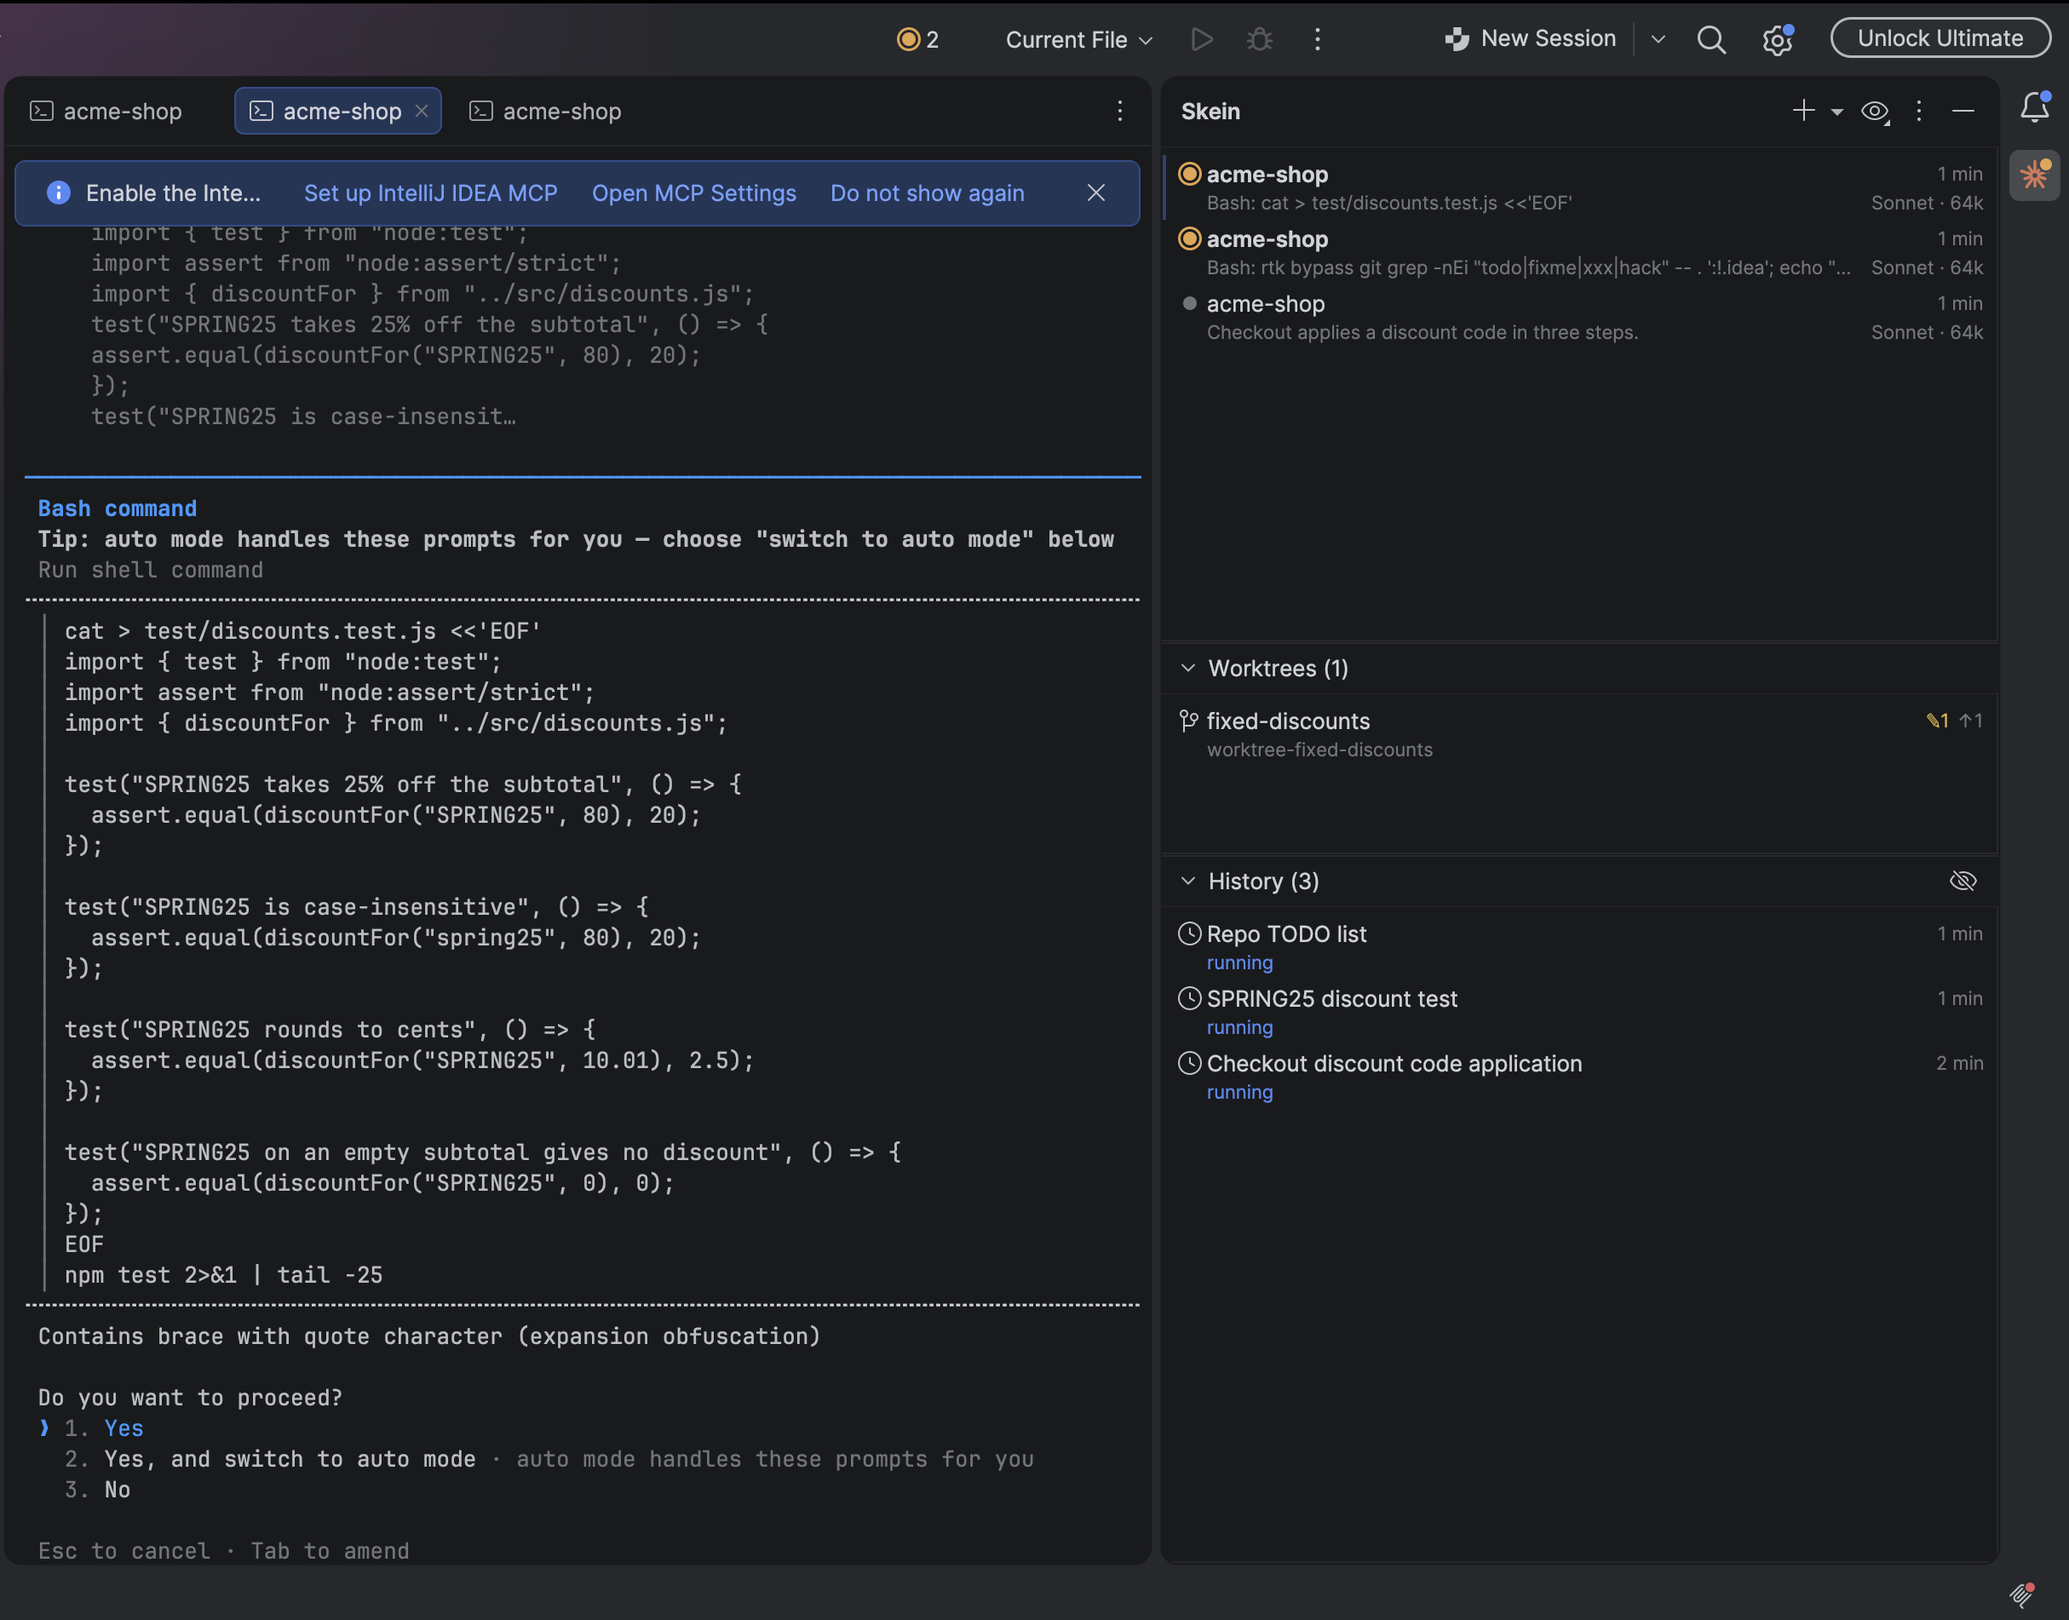
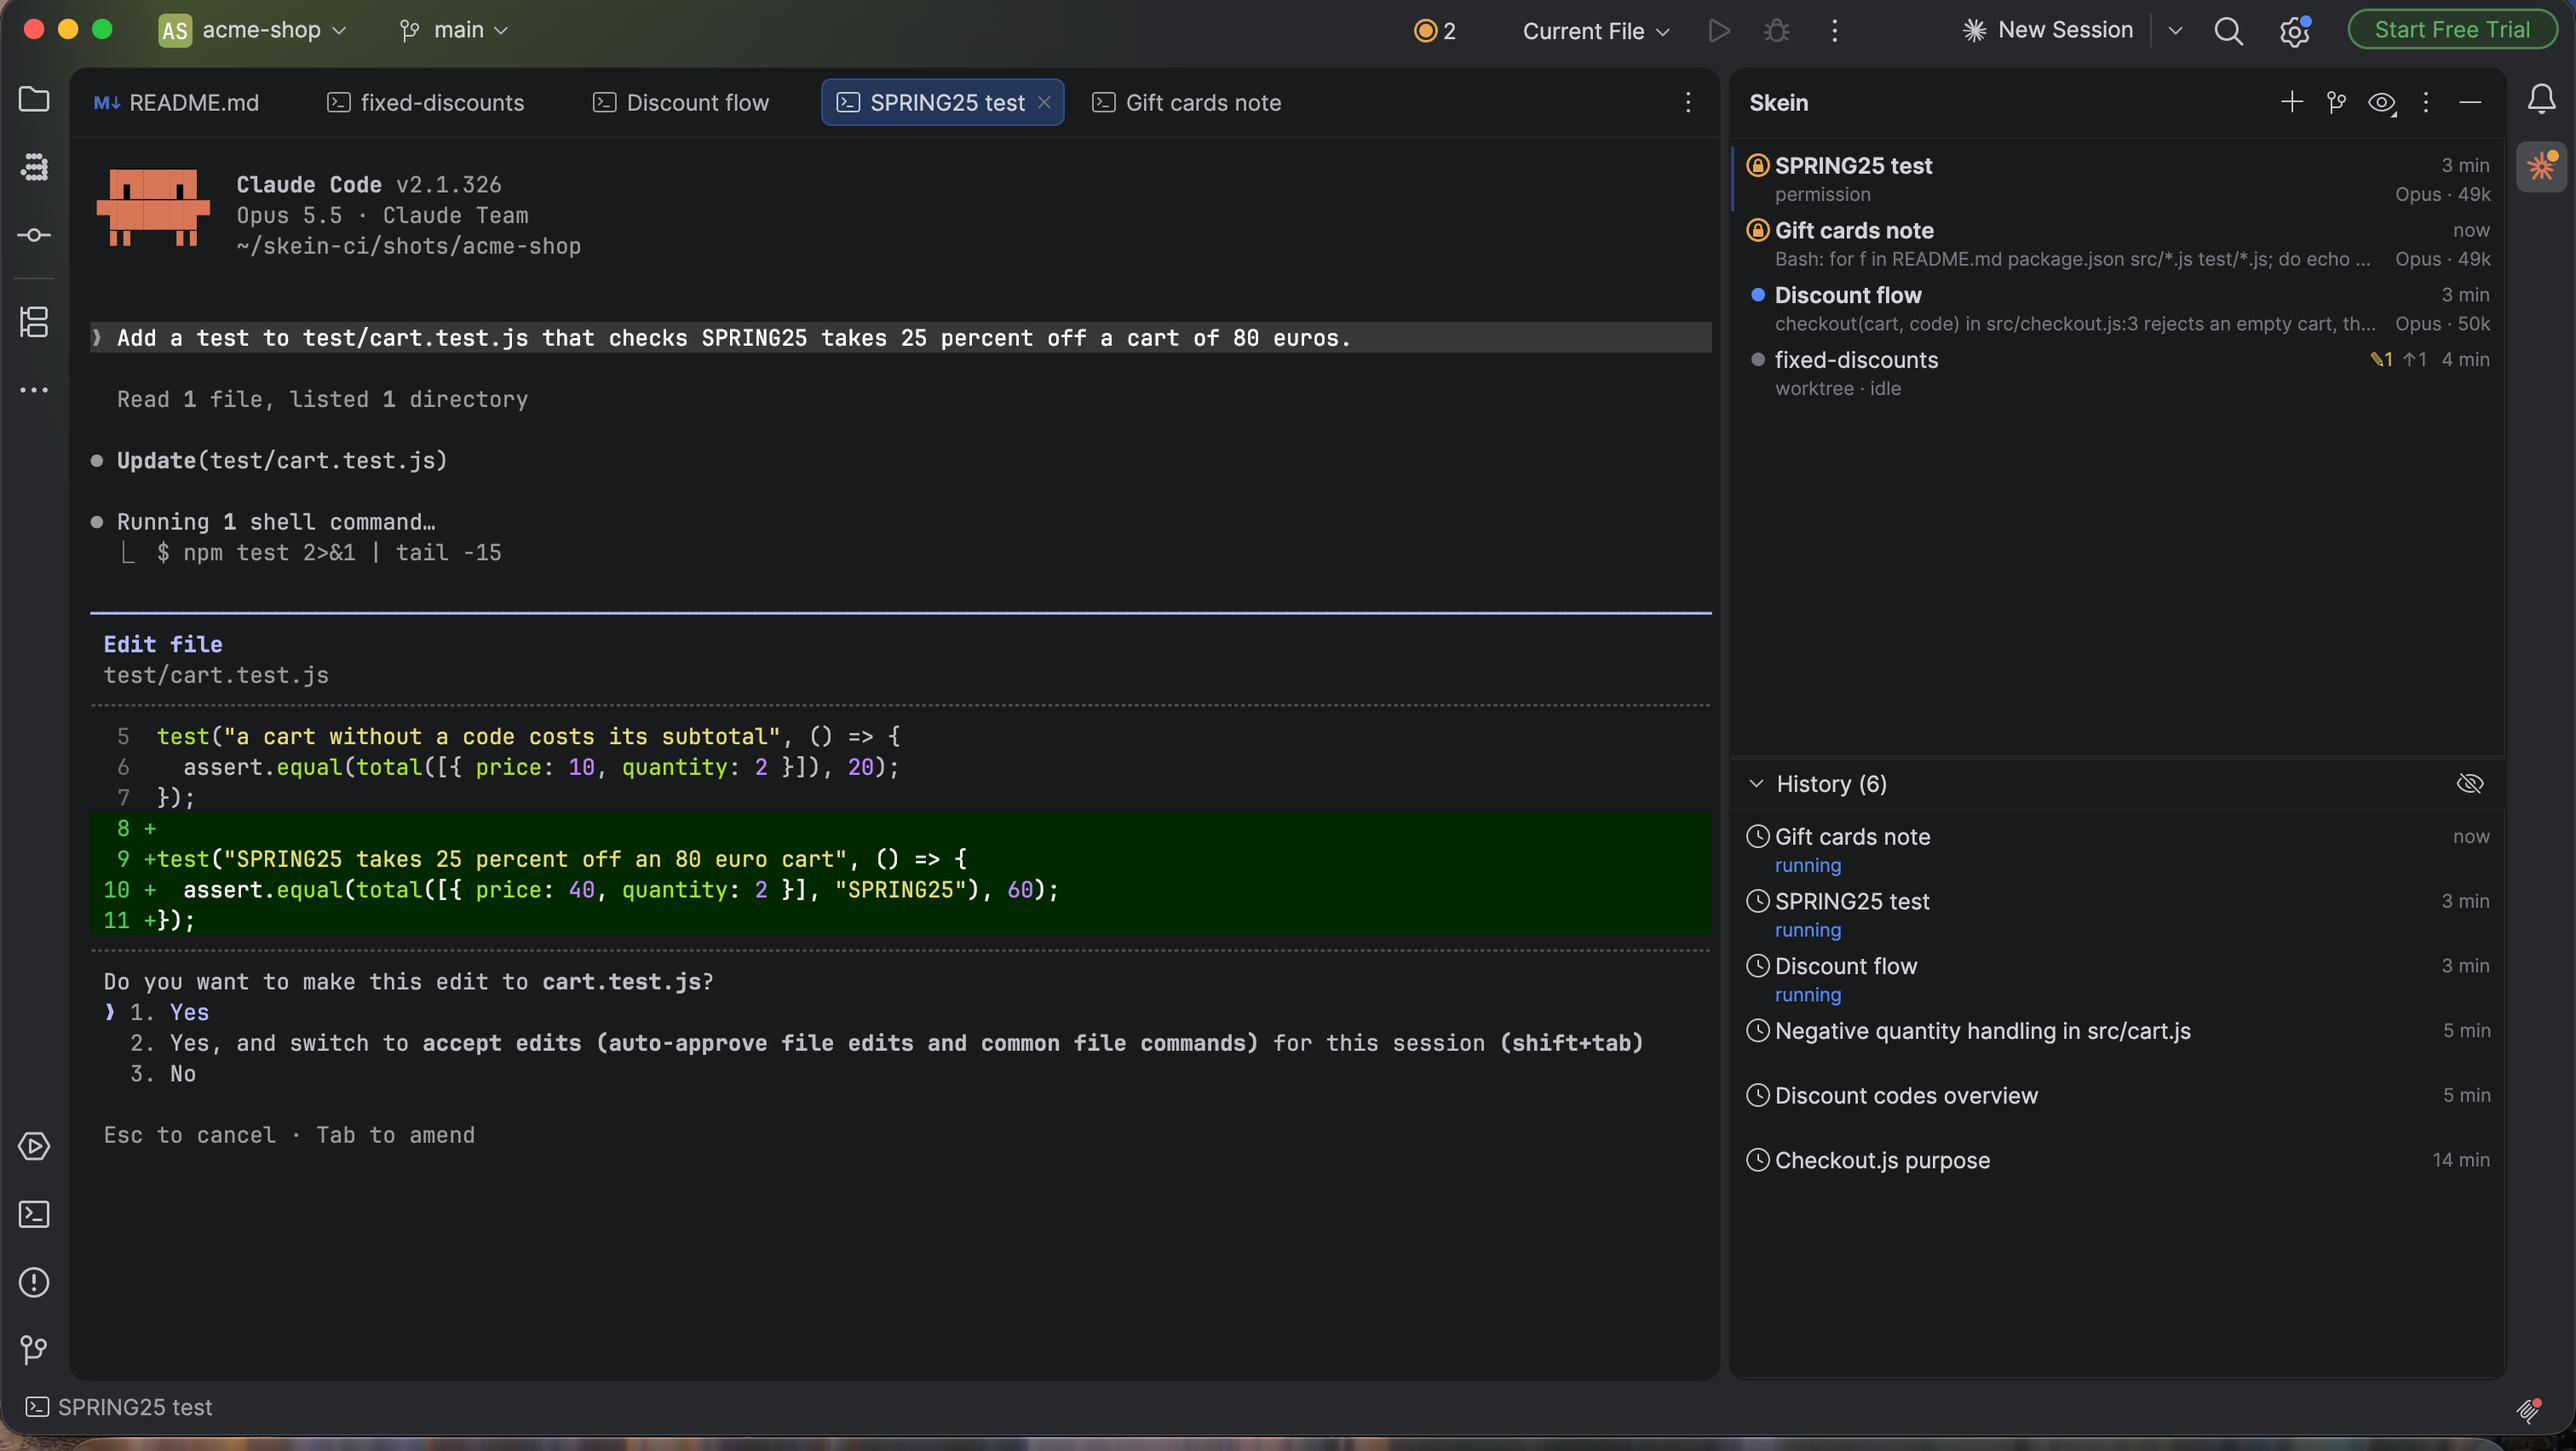
docs: new screenshots and descriptions for sounds, rename and notifications (#35)
The README and the Marketplace description still showed Skein as it was
before 1.4. They now cover renaming a session in Claude Code too, the
balloon that comes in the project you look at, and choosing a sound for
each kind of notification, with a new overview and thread menu picture
and three new ones for Rename, the sounds page and the balloon.

Text and pictures only. The pictures were taken on the macOS VM with
demo projects. Merge after #34, since the balloon and the sounds page
are shown as they look with it.

diff --git a/README.md b/README.md
@@ -6,7 +6,7 @@ on a permission prompt.
 
 Unofficial, for Claude Code, not affiliated with Anthropic.
 
-![Skein's panel beside a thread that waits for a permission: three threads, a kept worktree with its counts and the History](docs/images/skein-overview.png)
+![Skein's panel beside a thread that waits for a permission: two threads waiting for you, one that finished its turn, a worktree thread with its counts and the History](docs/images/skein-overview.png)
 
 ## Why Skein
 
@@ -17,9 +17,11 @@ Unofficial, for Claude Code, not affiliated with Anthropic.
   learns what each session does from Claude Code's own session files, and from `.claude.json` only whether a folder is
   trusted.
 - No session waits unseen. Every thread shows whether it waits for you, finished its turn or still works, and Skein
-  notifies you, plays a sound if you like and counts the threads waiting for you.
-- Every session of the project in one place. The History lists them by your name for them or Claude Code's title, and
-  you resume, pin, rename or mark them done - a rename can go to Claude Code too, so `claude -r` shows it as well.
+  counts the threads waiting for you and notifies you in the project window you are looking at, even when the thread
+  lives in another one, with the sound you picked for that kind of event.
+- Every session of the project in one place. The History lists them by your name for them or Claude Code's title,
+  picks up the ones you went on with in a plain terminal, and you resume, pin, rename or mark them done - a rename can
+  go to Claude Code too, so `claude -r` shows it as well.
 - The model and the context in use on every thread's row.
 - Parallel work in git worktrees. A worktree thread runs `claude --worktree`, its row counts changed files and commits
   not yet merged, and a kept worktree can be opened again or removed safely - Skein never forces a remove without a
@@ -54,7 +56,20 @@ have not looked yet. A click opens its tab, and Tools | Skein | Jump to Waiting 
 keyboard. The eye in the title bar filters and groups the threads, a right click
 on a thread pins, renames, colours or closes it, and a double click on a History session resumes it in a new tab.
 
-![A thread's menu in the Skein panel: Pin, Rename, Color and Close](docs/images/skein-thread-menu.png)
+![A worktree thread's menu in the Skein panel: Pin, Rename…, Color, Show Changes and Close](docs/images/skein-thread-menu.png)
+
+Rename… names a thread or a History session in Skein, and with Also rename in Claude Code ticked Skein types
+`/rename` into its claude too, once claude is idle and nothing was typed in its tab since your last message.
+
+![The Rename dialog with Also rename in Claude Code ticked](docs/images/skein-rename.png)
+
+When a thread needs you while another project's window or tab is in front, its balloon shows there and says which
+project the thread is in, and Open takes you to it. Settings | Tools | Skein has a switch and a sound for each kind of
+event: the system beep, one of your system's own alert sounds or a file of your own.
+
+![A balloon in the acme-blog tab about a thread of acme-shop that needs a permission](docs/images/skein-notify-other-project.png)
+
+![The Sounds part of Settings | Tools | Skein: Submarine when a thread needs you, Pop when it finishes its turn](docs/images/skein-sounds.png)
 
 Worktrees (N) lists the worktrees Claude Code left in `.claude/worktrees` that no thread holds, with the same counts,
 and opens, reveals or removes them. Show Changes, in the right-click menu of a worktree thread or of a kept worktree,
